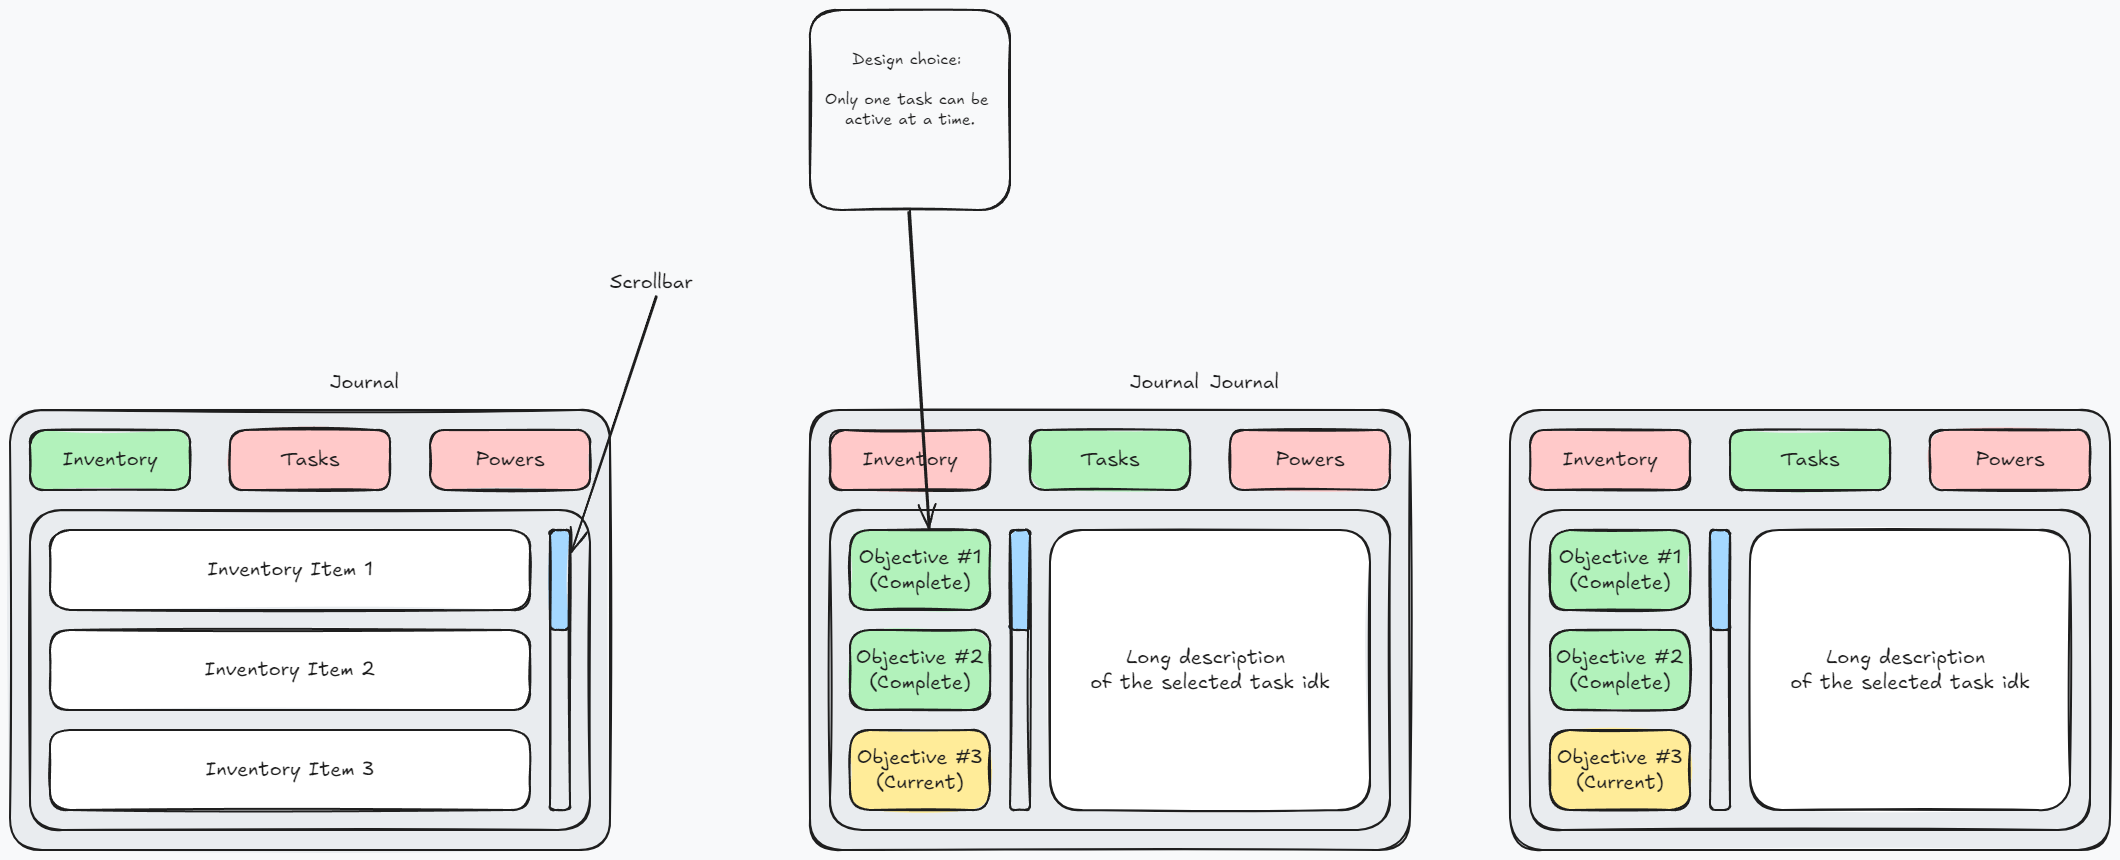
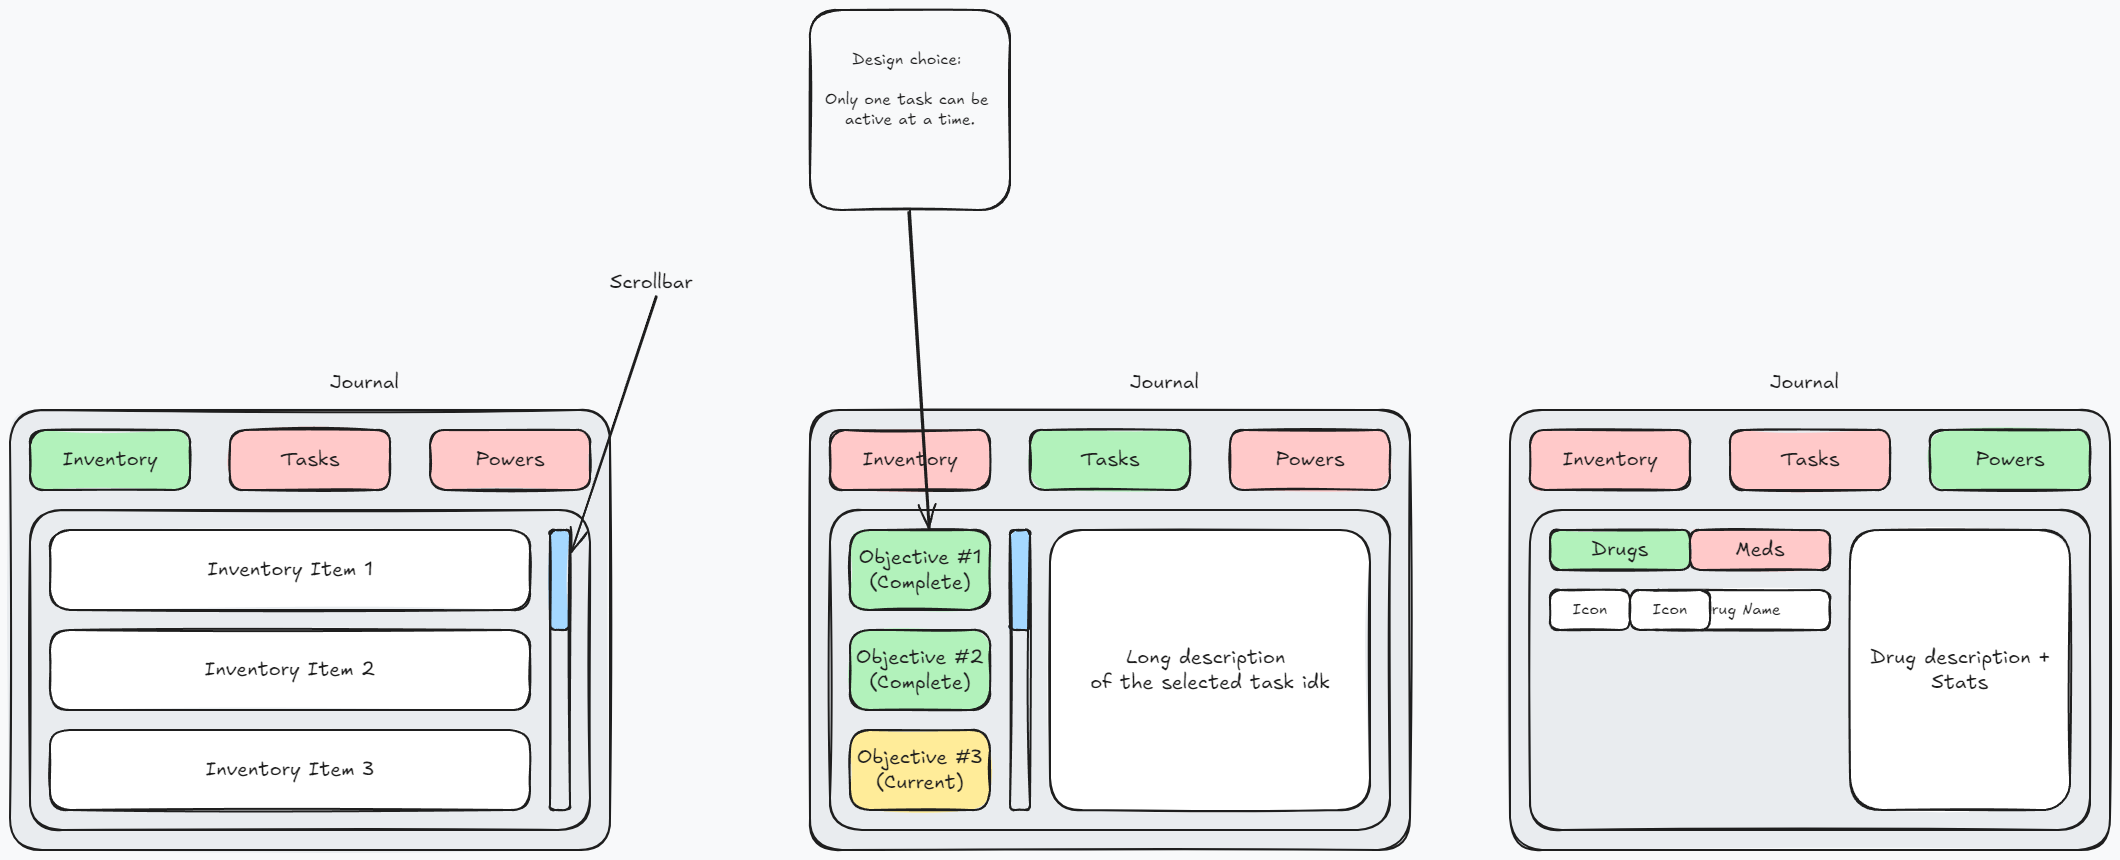
vault backup: 2024-11-26 16:29:10

diff --git a/_META/Excalidraw/Journal Breakdown.md b/_META/Excalidraw/Journal Breakdown.md
@@ -51,14 +51,23 @@ Powers ^ymWXnLvL
 
 Inventory ^HdpQ327N
 
-Long description 
-of the selected task idk ^QK9FGDLP
+Drug description + Stats ^QK9FGDLP
 
 Tasks ^lp5bQNtY
 
 Powers ^RYcI83Oc
 
 Journal ^wvTst2ji
+
+Drugs ^L3DHEo6G
+
+Meds ^kZ5I5DCH
+
+Icon ^4lFYZssZ
+
+Drug Name ^6m14PxS9
+
+Icon ^QC2EfrXz
 
 %%
 ## Drawing
@@ -153,64 +162,72 @@ YTAqCjcIrl7iHhTwl4W8I+FfDtgPwv4WlgBGMShcgHGhjiRd6oLhZQakgS51LKWUD+cKicUbOk2ybeQ8
 
[1 lines of base64/hex data omitted]
 
[2 lines of base64/hex data omitted]
 
[2 lines of base64/hex data omitted]
 
[2 lines of base64/hex data omitted]
 
[2 lines of base64/hex data omitted]
 
[2 lines of base64/hex data omitted]
 
[2 lines of base64/hex data omitted]
 
[2 lines of base64/hex data omitted]
 
[2 lines of base64/hex data omitted]
 
[2 lines of base64/hex data omitted]
 
[2 lines of base64/hex data omitted]
 
[2 lines of base64/hex data omitted]
 
[2 lines of base64/hex data omitted]
 
[2 lines of base64/hex data omitted]
 
[2 lines of base64/hex data omitted]
 
[2 lines of base64/hex data omitted]
 
[2 lines of base64/hex data omitted]
 
[2 lines of base64/hex data omitted]
 
[2 lines of base64/hex data omitted]
 
[2 lines of base64/hex data omitted]
 
[2 lines of base64/hex data omitted]
 
[2 lines of base64/hex data omitted]
 
[2 lines of base64/hex data omitted]
 
[2 lines of base64/hex data omitted]
 
[2 lines of base64/hex data omitted]
 
[2 lines of base64/hex data omitted]
 
[2 lines of base64/hex data omitted]
 
[2 lines of base64/hex data omitted]
 
[2 lines of base64/hex data omitted]
 
[2 lines of base64/hex data omitted]
 
[2 lines of base64/hex data omitted]
+
[1 lines of base64/hex data omitted]
+
[1 lines of base64/hex data omitted]
+
[1 lines of base64/hex data omitted]
+
[1 lines of base64/hex data omitted]
 ```
 %%
